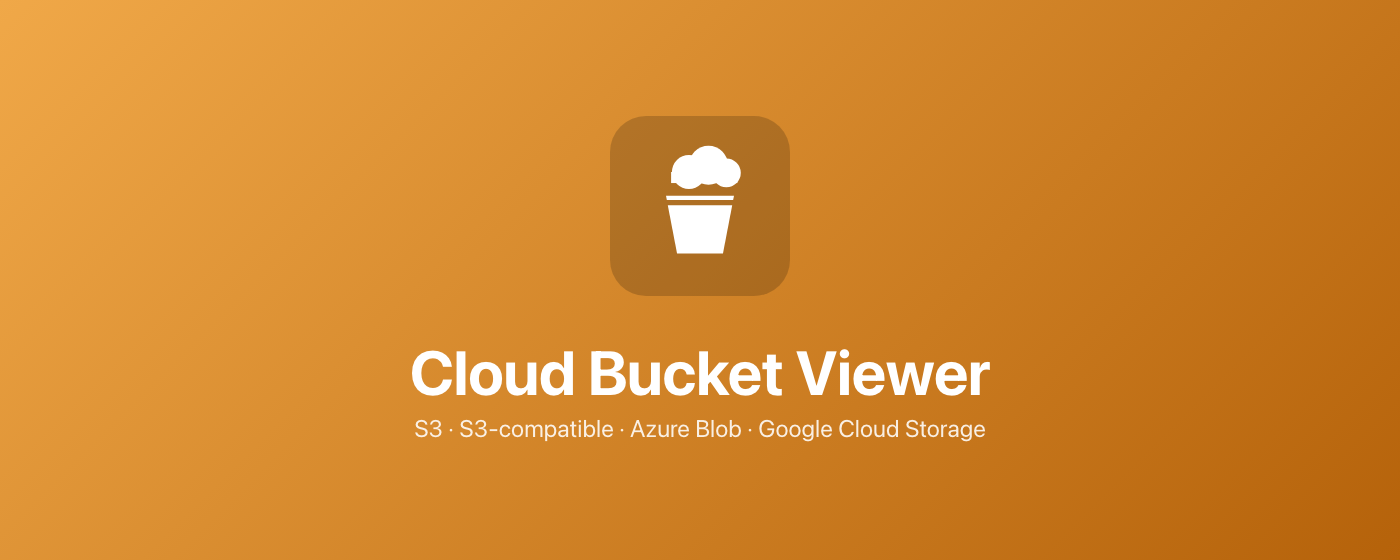
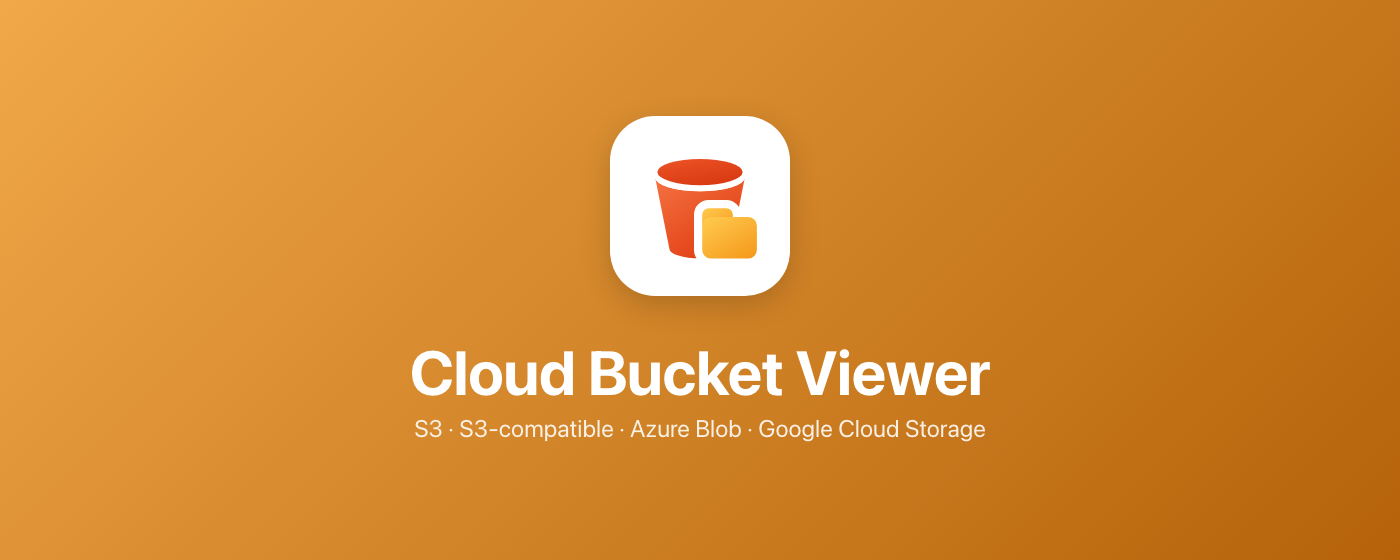
Rebuild the store art on the new mark
The tiles inlined a copy of the old glyph geometry; they now read
extension/icons/icon.svg directly, so the art can't drift from the shipped
icon again. The mark sits on a white rounded tile because the coloured
version has no contrast against the orange gradient background.

Changed region(s): [[0.43, 0.1821, 0.5836, 0.5464]]

diff --git a/scripts/gen_store_assets.py b/scripts/gen_store_assets.py
@@ -23,18 +23,10 @@ CHROME = "/Applications/Google Chrome.app/Contents/MacOS/Google Chrome"
 ACCENT_DARK = "#b5620a"
 ACCENT_LIGHT = "#f0a848"
 
-# Glyph geometry mirrors scripts/gen_icons.py, as SVG so it stays crisp.
-GLYPH = """
-<svg class="glyph" viewBox="0 0 16 16" xmlns="http://www.w3.org/2000/svg">
-  <g fill="#fff">
-    <circle cx="6.7" cy="4.0" r="2.0"/><circle cx="9.0" cy="3.2" r="2.3"/>
-    <circle cx="11.1" cy="4.1" r="1.7"/>
-    <rect x="4.6" y="4.0" width="7.8" height="1.3"/>
-    <polygon points="4.00,6.80 12.00,6.80 11.90,7.30 4.10,7.30"/>
-    <polygon points="4.21,7.90 11.79,7.90 10.70,13.60 5.30,13.60"/>
-  </g>
-</svg>
-"""
+# The mark is the same vector source the extension icons are built from.
+GLYPH = (EXT / "icons" / "icon.svg").read_text().replace(
+    "<svg ", '<svg class="glyph" ', 1
+)
 
 # Dark tokens pinned unconditionally: headless Chrome reports a light OS
 # theme, so the media query in sidepanel.css would never fire.
@@ -293,7 +285,8 @@ body {{ margin: 0; width: {width}px; height: {height}px; overflow: hidden;
   display: flex; flex-direction: column; align-items: center;
   justify-content: center; gap: {gap}px; color: #fff; text-align: center; }}
 .glyph {{ width: {glyph_size}px; height: {glyph_size}px;
-  background: rgba(0,0,0,.18); border-radius: {glyph_size // 5}px; padding: {glyph_size // 8}px; }}
+  background: #fff; border-radius: {glyph_size // 4}px; padding: {glyph_size // 9}px;
+  box-shadow: 0 {glyph_size // 20}px {glyph_size // 6}px rgba(0,0,0,.18); }}
 h1 {{ margin: 0; font-size: {title_size}px; font-weight: 700; letter-spacing: -0.5px; }}
 p {{ margin: 0; font-size: {sub_size}px; color: rgba(255,255,255,.88); }}
 </style></head><body>
